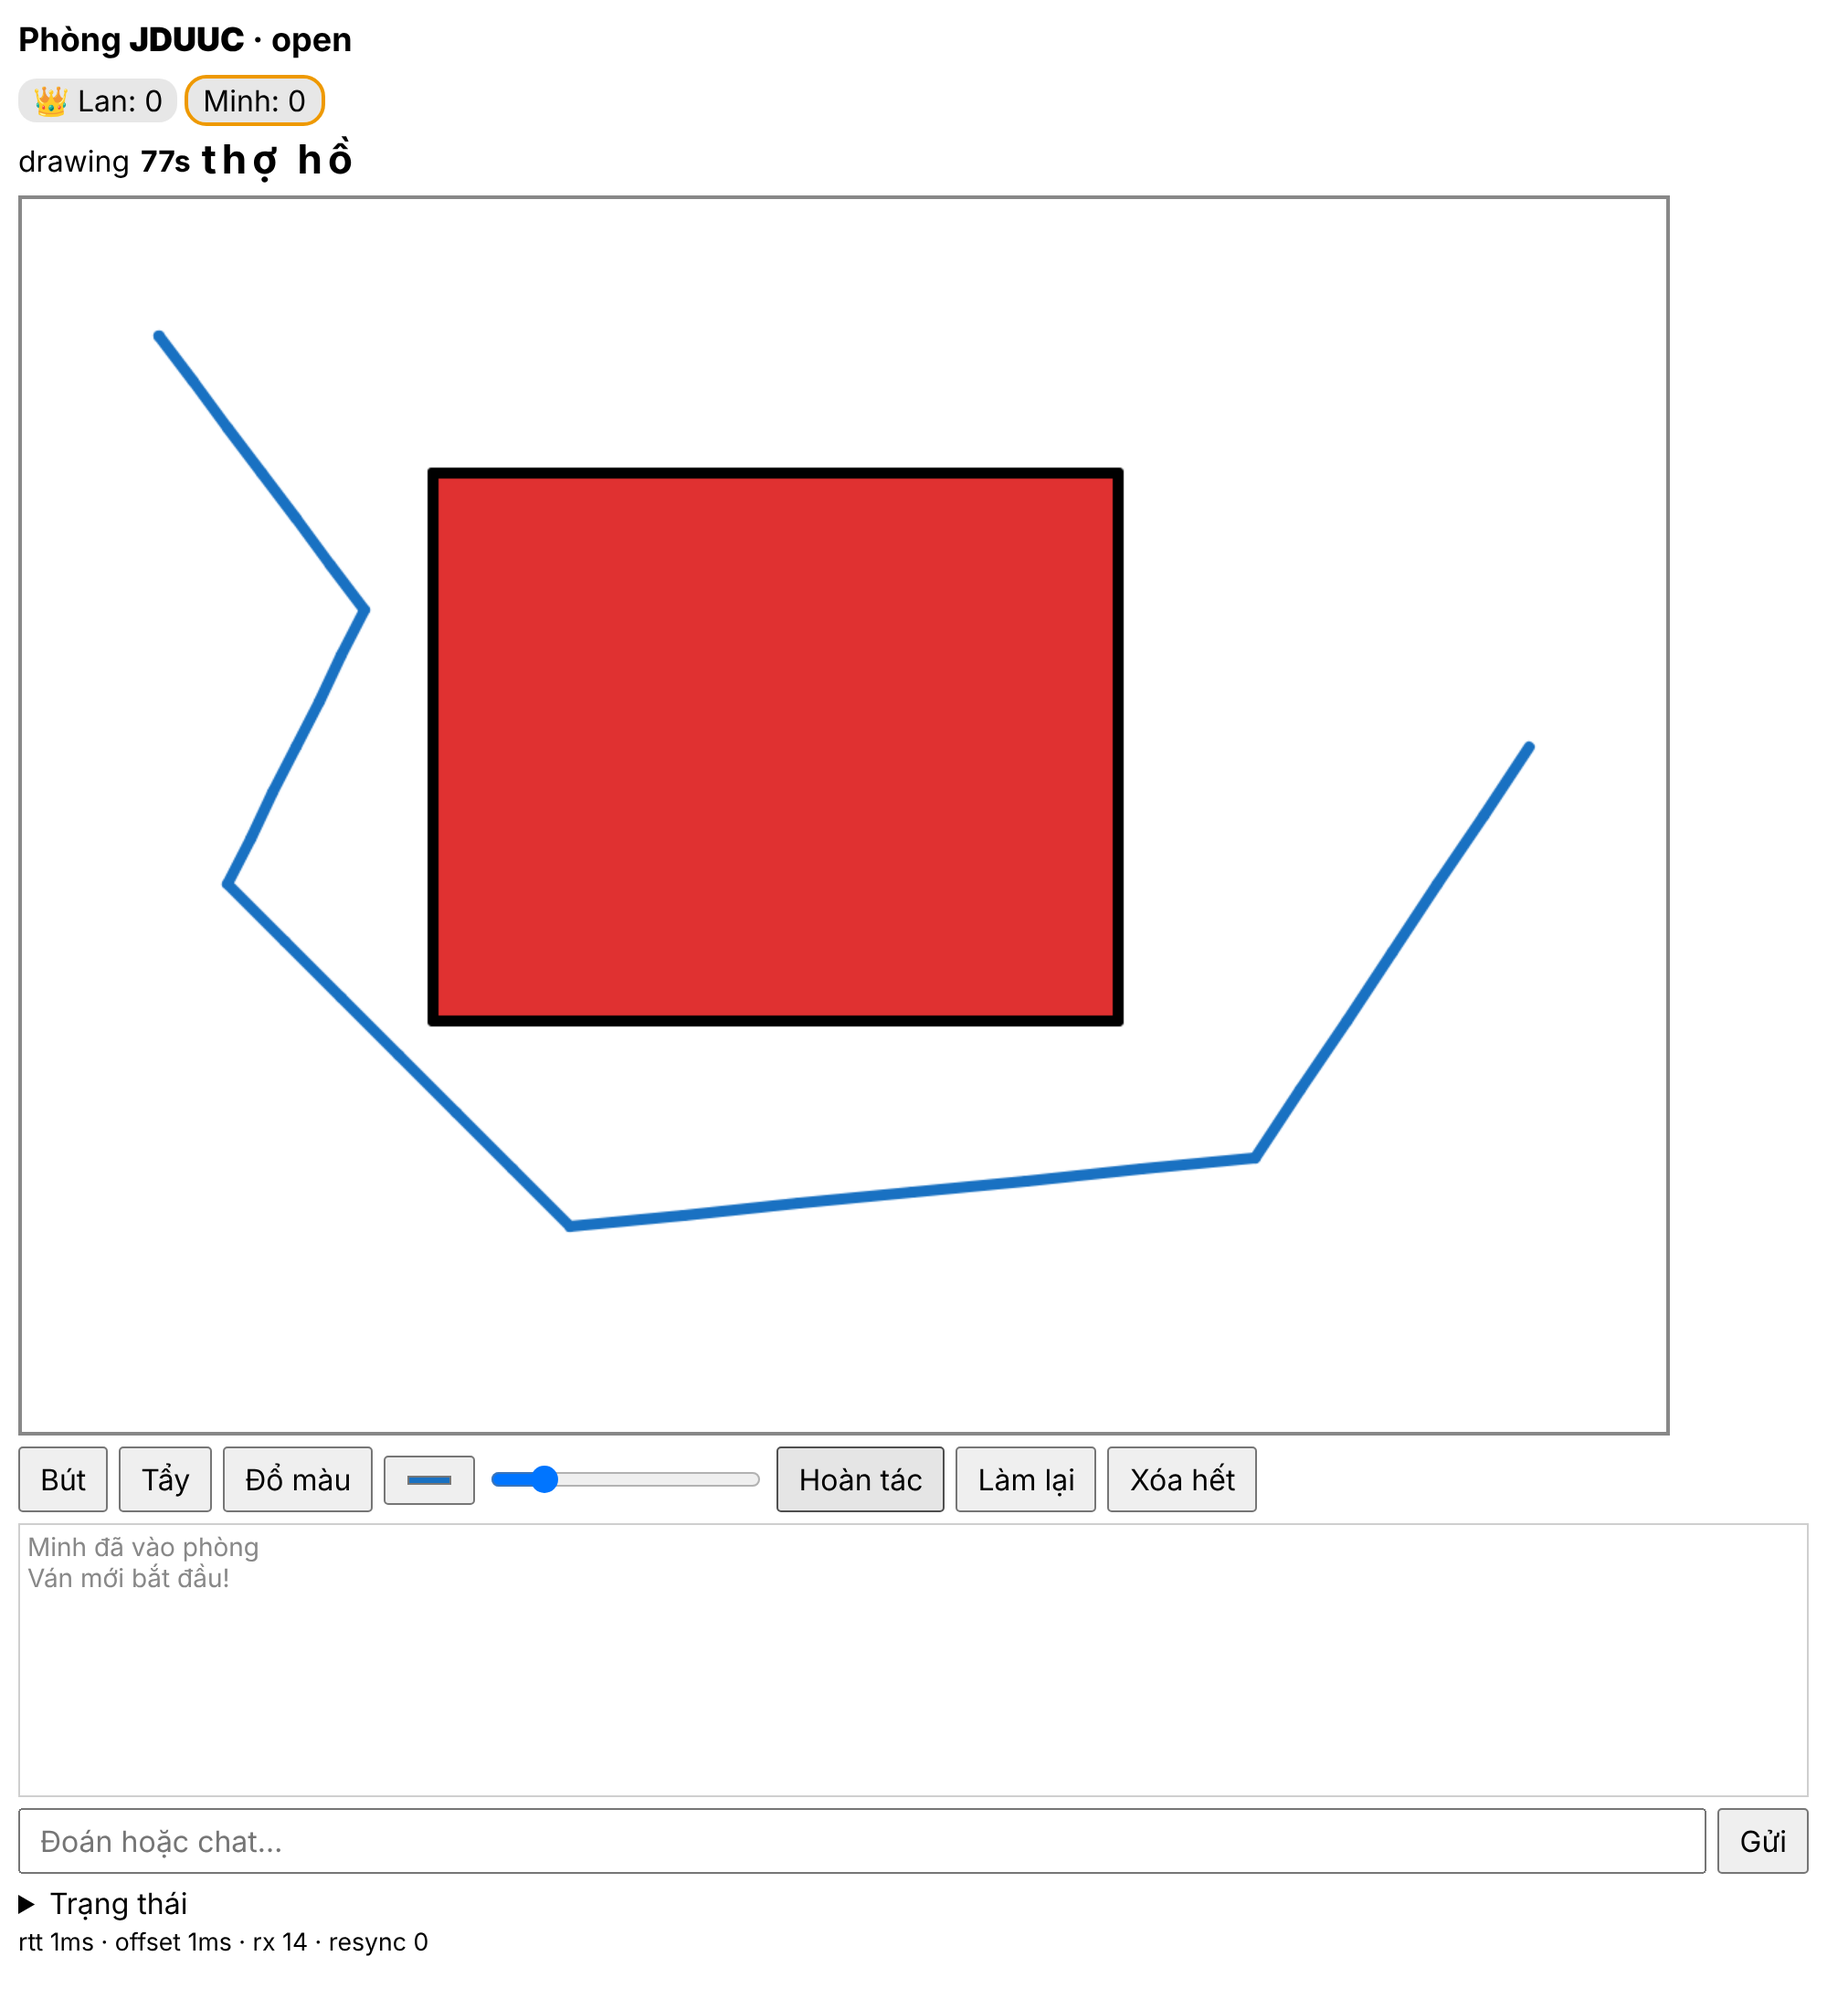
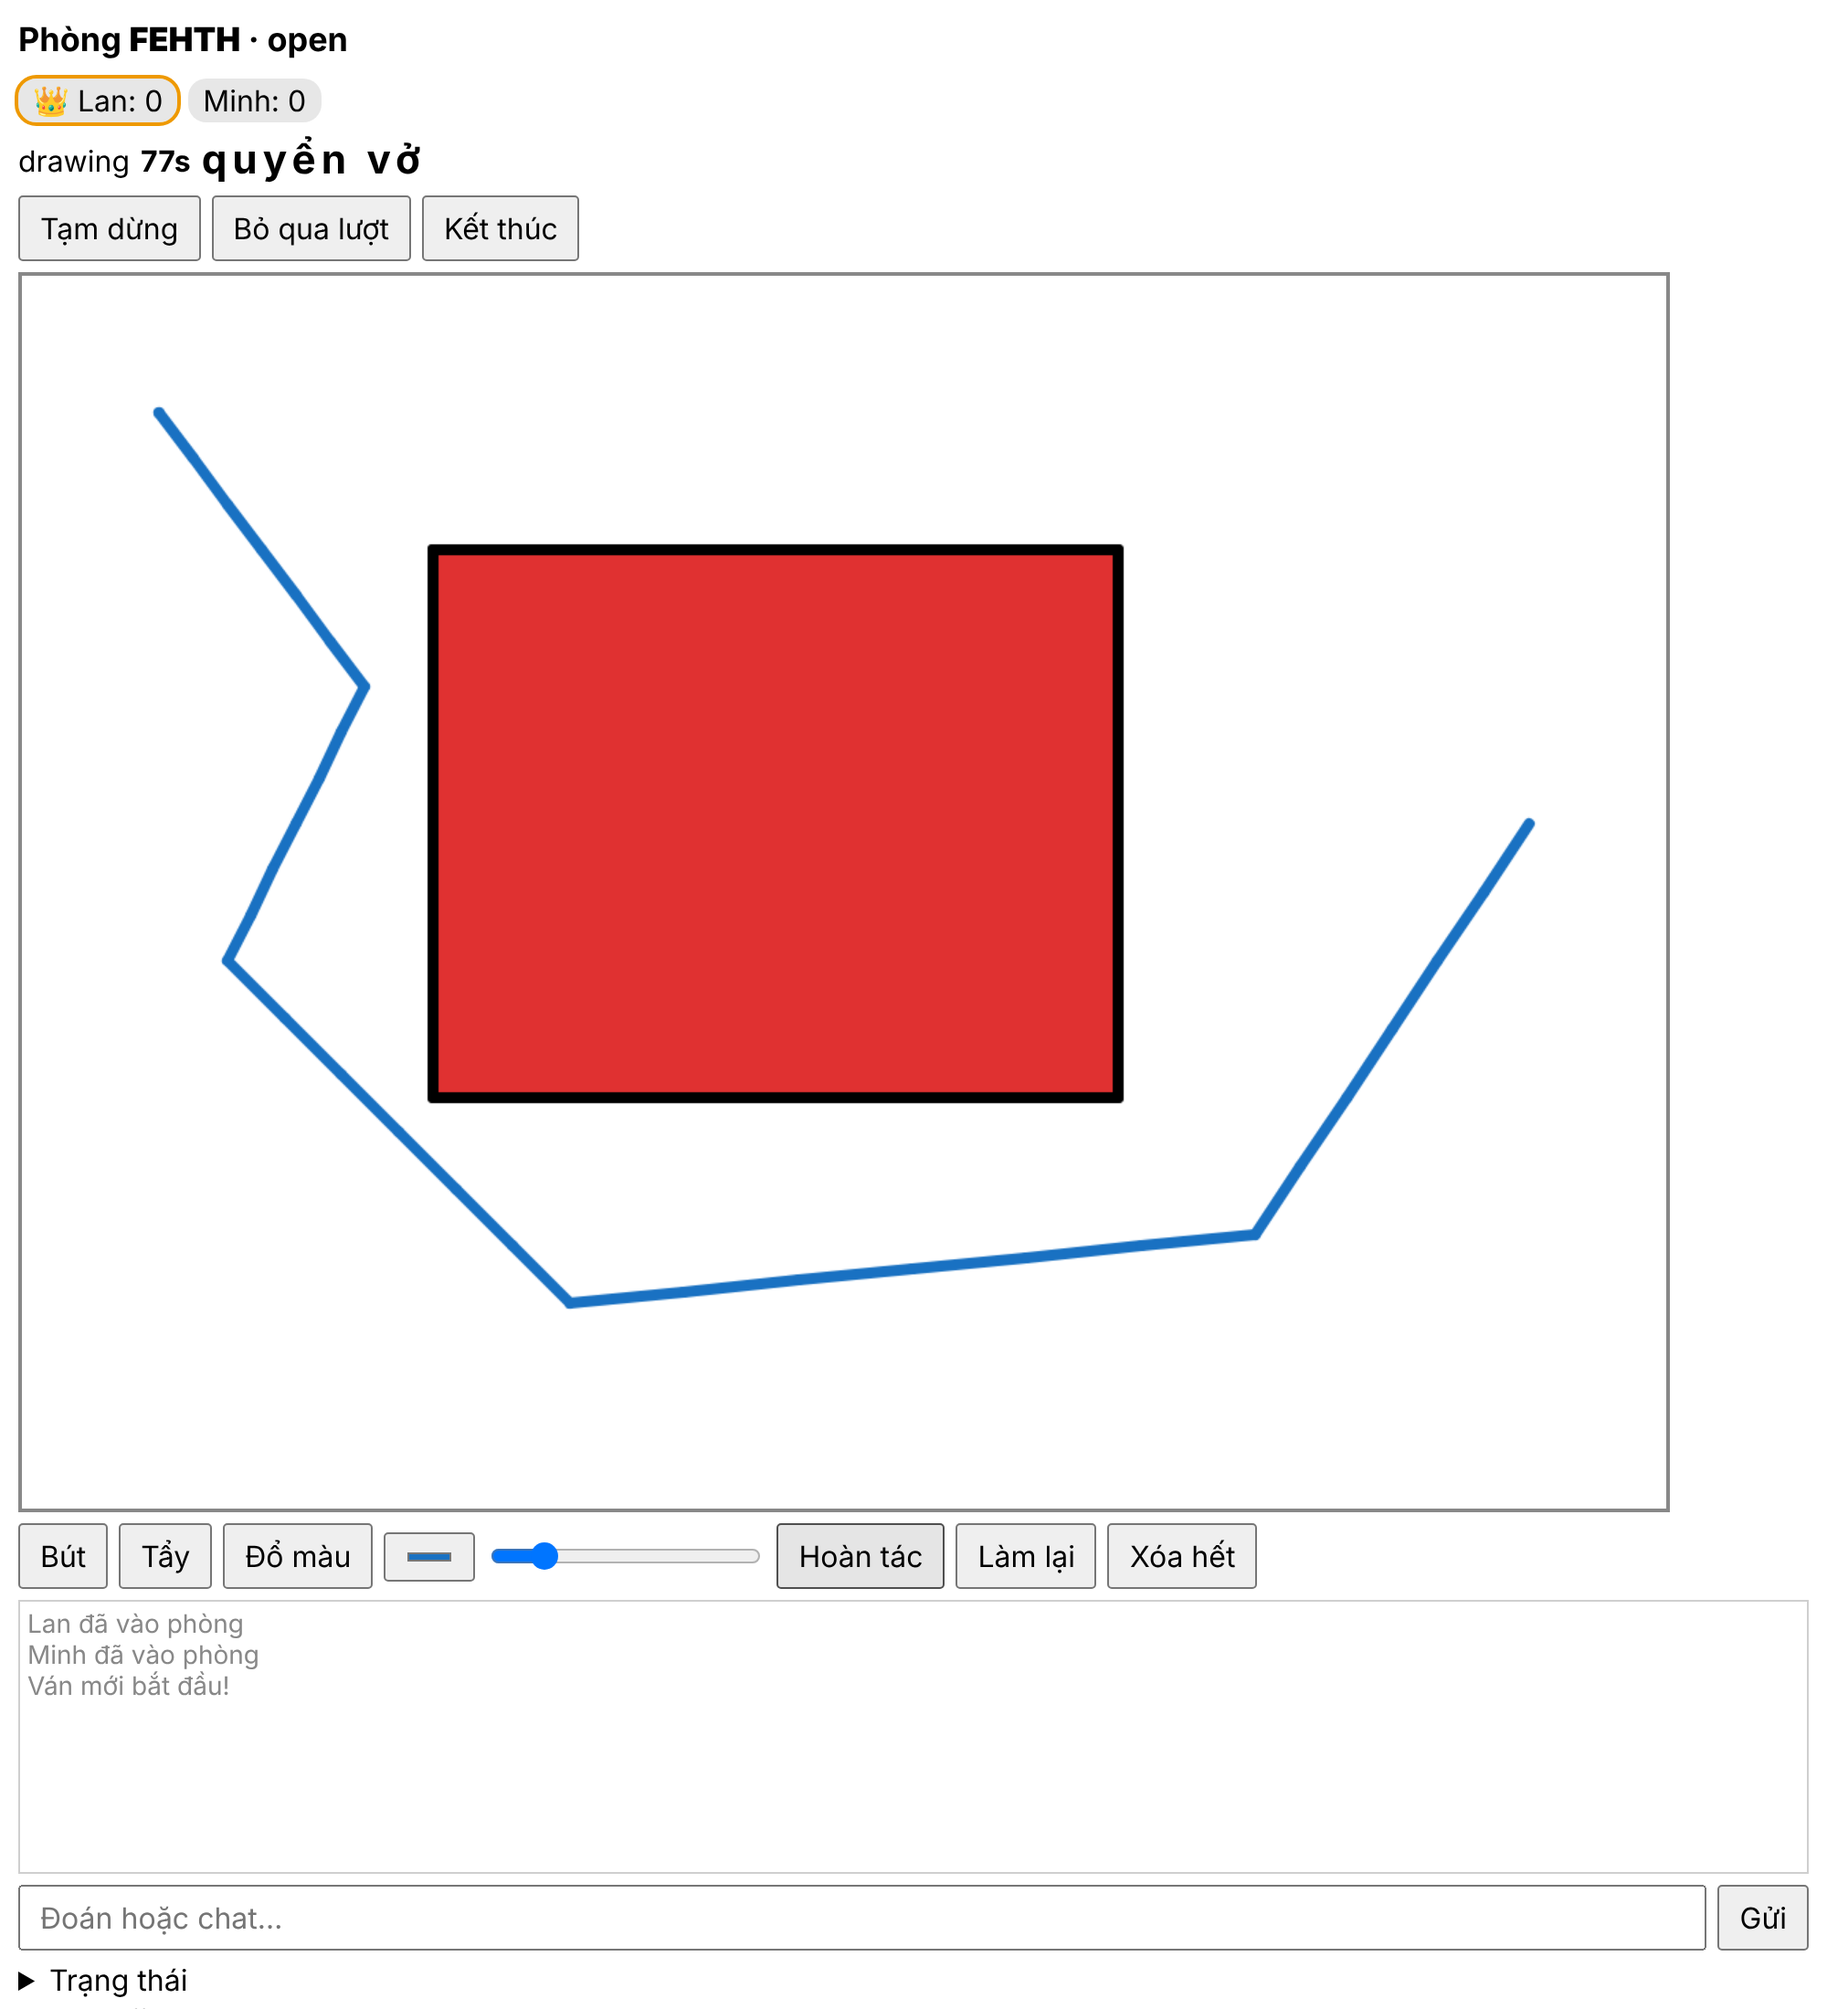
Final stage-1 verification: fix test typing, refresh reports and SPEC numbers
Claude-Session: https://claude.ai/code/session_01JD5sEi9Ph8j2iLTQWyuSWm

diff --git a/tests/client.test.ts b/tests/client.test.ts
@@ -6,7 +6,8 @@ class FakeWS {
   static last: FakeWS;
   readyState = 1; sent: string[] = [];
   onopen: (() => void) | null = null; onmessage: ((e: { data: string }) => void) | null = null; onclose: (() => void) | null = null; onerror: (() => void) | null = null;
-  constructor(public url: string) { FakeWS.last = this; queueMicrotask(() => this.onopen?.()); }
+  url: string;
+  constructor(url: string) { this.url = url; FakeWS.last = this; queueMicrotask(() => this.onopen?.()); }
   send(d: string) { this.sent.push(d); }
   close() { this.onclose?.(); }
   push(m: ServerMsg) { this.onmessage?.({ data: JSON.stringify(m) }); }

diff --git a/SPEC.md b/SPEC.md
@@ -35,8 +35,8 @@ Not confirmed by the docs fetch (we do not rely on them): exact idle time before
 - Rooms are deleted 30 min after they empty (`storage.deleteAll()`).
 
 ### Measured traffic (reports/loadtest.md, 42 bots + 1 late joiner, 60 s turn, local workerd)
-- 1,689 frames into the DO in 60 s = 28 msgs/s average (peak 69/s) → 84 billed requests per turn (+ 43 connection requests).
-- Per client: 8.3 KB/s received on average, guessers send ≈ 5 B/s.
+- 1,683 frames into the DO in 60 s = 28 msgs/s average (peak 72/s) → 84 billed requests per turn (+ 43 connection requests).
+- Per client: 8.4 KB/s received on average, guessers send ≈ 5 B/s.
 
 ### Estimate: 42-player game-hours per day on the free plan
 A turn cycle ≈ 15 s choosing + 80 s drawing + 7 s reveal ≈ 100 s → 36 turns/hour.
@@ -206,7 +206,7 @@ UI notes: show the countdown from `phaseEndsAt`; do not display `reveal.word` be
 | # | Item | Evidence |
 |---|---|---|
 | A1 | Vitest covers the state machine in all three modes, scoring, fair drawer selection, hints, guess normalization and near-miss, host transfer, reconnect, late join, word privacy; all pass | `npm test` → 6 files, 78 tests passed. Modes: `room.game.test.ts` "Chỉ host vẽ", "Host không vẽ", `room.basic.test.ts` "rotate mode"; scoring/hints/guesses/privacy in `room.game.test.ts`; fairness (8 players ×2 rounds, 14-player turn mode, late joiner); host transfer, reconnect, late join, relay validation, rate limits, expiry, hibernation round-trip in `room.presence.test.ts`; normalization/near-miss in `text.test.ts`; canvas in `canvas.test.ts`; clock sync in `client.test.ts` |
-| A2 | `npm run loadtest`: 42 bots vs `wrangler dev`; drawer streams strokes a full turn; others chat/guess; 5 drop+reconnect; 1 joins late; reports p50/p95 relay latency, bytes/s per client, msgs/s into DO, zero lost/reordered ops, all op-log hashes equal the server's; report in `reports/loadtest.md` | `reports/loadtest.md`: 43/43 hashes equal (2,934 ops), 0 gaps, 5/5 reconnects, late joiner matches, p50 14.0 ms / p95 22.8 ms / p99 43.3 ms, 8.3 KB/s received per client, 28.1 msgs/s (peak 69) into the DO |
+| A2 | `npm run loadtest`: 42 bots vs `wrangler dev`; drawer streams strokes a full turn; others chat/guess; 5 drop+reconnect; 1 joins late; reports p50/p95 relay latency, bytes/s per client, msgs/s into DO, zero lost/reordered ops, all op-log hashes equal the server's; report in `reports/loadtest.md` | `reports/loadtest.md`: 43/43 hashes equal (2,913 ops), 0 gaps, 5/5 reconnects, late joiner matches, p50 13.9 ms / p95 22.6 ms / p99 42.8 ms, 8.4 KB/s received per client, 28.0 msgs/s (peak 72) into the DO |
 | A3 | Two headless Chromium pages on the debug page, one room: draw, fill, undo, redo on one → identical canvas on the other; screenshots in `reports/` | `npm run e2e` → `reports/e2e.md` (12/12 checks: identical op hash, raw RGBA hash and PNG; fill red inside, not outside; reload restores the same canvas and seat) + `reports/e2e-drawer.png`, `e2e-viewer.png`, `e2e-viewer-after-reload.png` |
 | A4 | Project `CLAUDE.md` (dev/test/loadtest/build/deploy, gotchas, working rules) and `PLAN.md` (stages 1–4) | files in the repo root |
 | A5 | `npm run build` then `npx wrangler deploy` work from a clean clone | `git clone` → `npm ci` → `npm run build` → `npx wrangler deploy --dry-run` succeeds (assets 3 files, bindings `ROOM` DO + `ASSETS`); real deploy needs the user's Cloudflare login (stage 3) |

diff --git a/reports/loadtest.md b/reports/loadtest.md
@@ -1,7 +1,7 @@
 # Load test report
 
-Generated by `npm run loadtest` on 2026-11-11T18:34:33.413Z against **wrangler dev** (local workerd, loopback network).
-Room `B64JQ`, 42 bots (+1 late joiner), "Chỉ host vẽ" mode, one 60-second drawing turn, hints on.
+Generated by `npm run loadtest` on 2026-11-11T18:40:35.404Z against **wrangler dev** (local workerd, loopback network).
+Room `MJTFR`, 42 bots (+1 late joiner), "Chỉ host vẽ" mode, one 60-second drawing turn, hints on.
 
 ## Scenario
 - Drawer (host bot) streams realistic strokes: 60 Hz pointer samples (one op per sample, the worst case for op count), smooth curves 25-140 points long, pauses between strokes, occasional fill / undo / redo / eraser. Client batches every 40 ms.
@@ -13,31 +13,31 @@ Room `B64JQ`, 42 bots (+1 late joiner), "Chỉ host vẽ" mode, one 60-second dr
 |---|---|
 | Players in one room | 42 (+1 late joiner) |
 | Turn ended by | timeUp |
-| Ops in the turn (server log) | 2934 |
-| Final op-log hash, server | `4185d64506aae147` |
+| Ops in the turn (server log) | 2913 |
+| Final op-log hash, server | `115d7ce9682d8988` |
 | Clients whose hash equals the server | 43 / 43 |
 | Lost or reordered ops (sequence gaps) | 0 |
 | Resync requests | 0 |
 | Reconnects (dropped bots) | 5 / 5 |
 
 ### Relay latency (drawer queues an op -> receiver gets it)
-Measured in one process (shared clock), 49449 deliveries. Includes the drawer client's 40 ms batching interval; excludes real-world network round trips (loopback here).
+Measured in one process (shared clock), 49173 deliveries. Includes the drawer client's 40 ms batching interval; excludes real-world network round trips (loopback here).
 
 | p50 | p95 | p99 | max |
 |---|---|---|---|
-| 14.0 ms | 22.8 ms | 43.3 ms | 51.3 ms |
+| 13.9 ms | 22.6 ms | 42.8 ms | 48.0 ms |
 
 ### Bandwidth per client (during the turn, 60.0 s)
 | | avg | p95 | max |
 |---|---|---|---|
-| Receive, bytes/s per client | 8307 | 8613 | 8890 |
+| Receive, bytes/s per client | 8422 | 8718 | 8919 |
 | Send, bytes/s per guesser | 5 | 7 | 8 |
-| Send, bytes/s drawer | 1658 | | |
+| Send, bytes/s drawer | 1647 | | |
 
 ### Messages into the Durable Object
 | total frames | avg msgs/s | peak msgs/s (1 s bin) | frames received per client (avg) |
 |---|---|---|---|
-| 1689 | 28.1 | 69 | 1546 |
+| 1683 | 28.0 | 72 | 1538 |
 
 Cloudflare bills incoming WebSocket messages 20:1 as requests, outgoing are free: this turn = **84 billed requests** (+ 43 connection requests) out of the free 100,000/day.
 

diff --git a/reports/e2e.md b/reports/e2e.md
@@ -1,11 +1,11 @@
 # Two-browser canvas check
 
-Generated by `npm run e2e` (2026-11-11T18:32:10.660Z), headless Chromium via Playwright against `wrangler dev`.
+Generated by `npm run e2e` (2026-11-11T18:41:51.318Z), headless Chromium via Playwright against `wrangler dev`.
 
-- [x] room created with a 5-char code — JDUUC
+- [x] room created with a 5-char code — FEHTH
 - [x] /r/CODE is served (SPA fallback)
 - [x] both players see each other
-- [x] viewer sees only a mask while drawing — ___ __
+- [x] viewer sees only a mask while drawing — _____ __
 - [x] op-log hash identical on both pages — c9cff6bad6f96f33 (67 ops)
 - [x] canvas pixels identical (raw RGBA hash) — f57f84db
 - [x] canvas PNG identical (toDataURL) — e186b23c448525de
